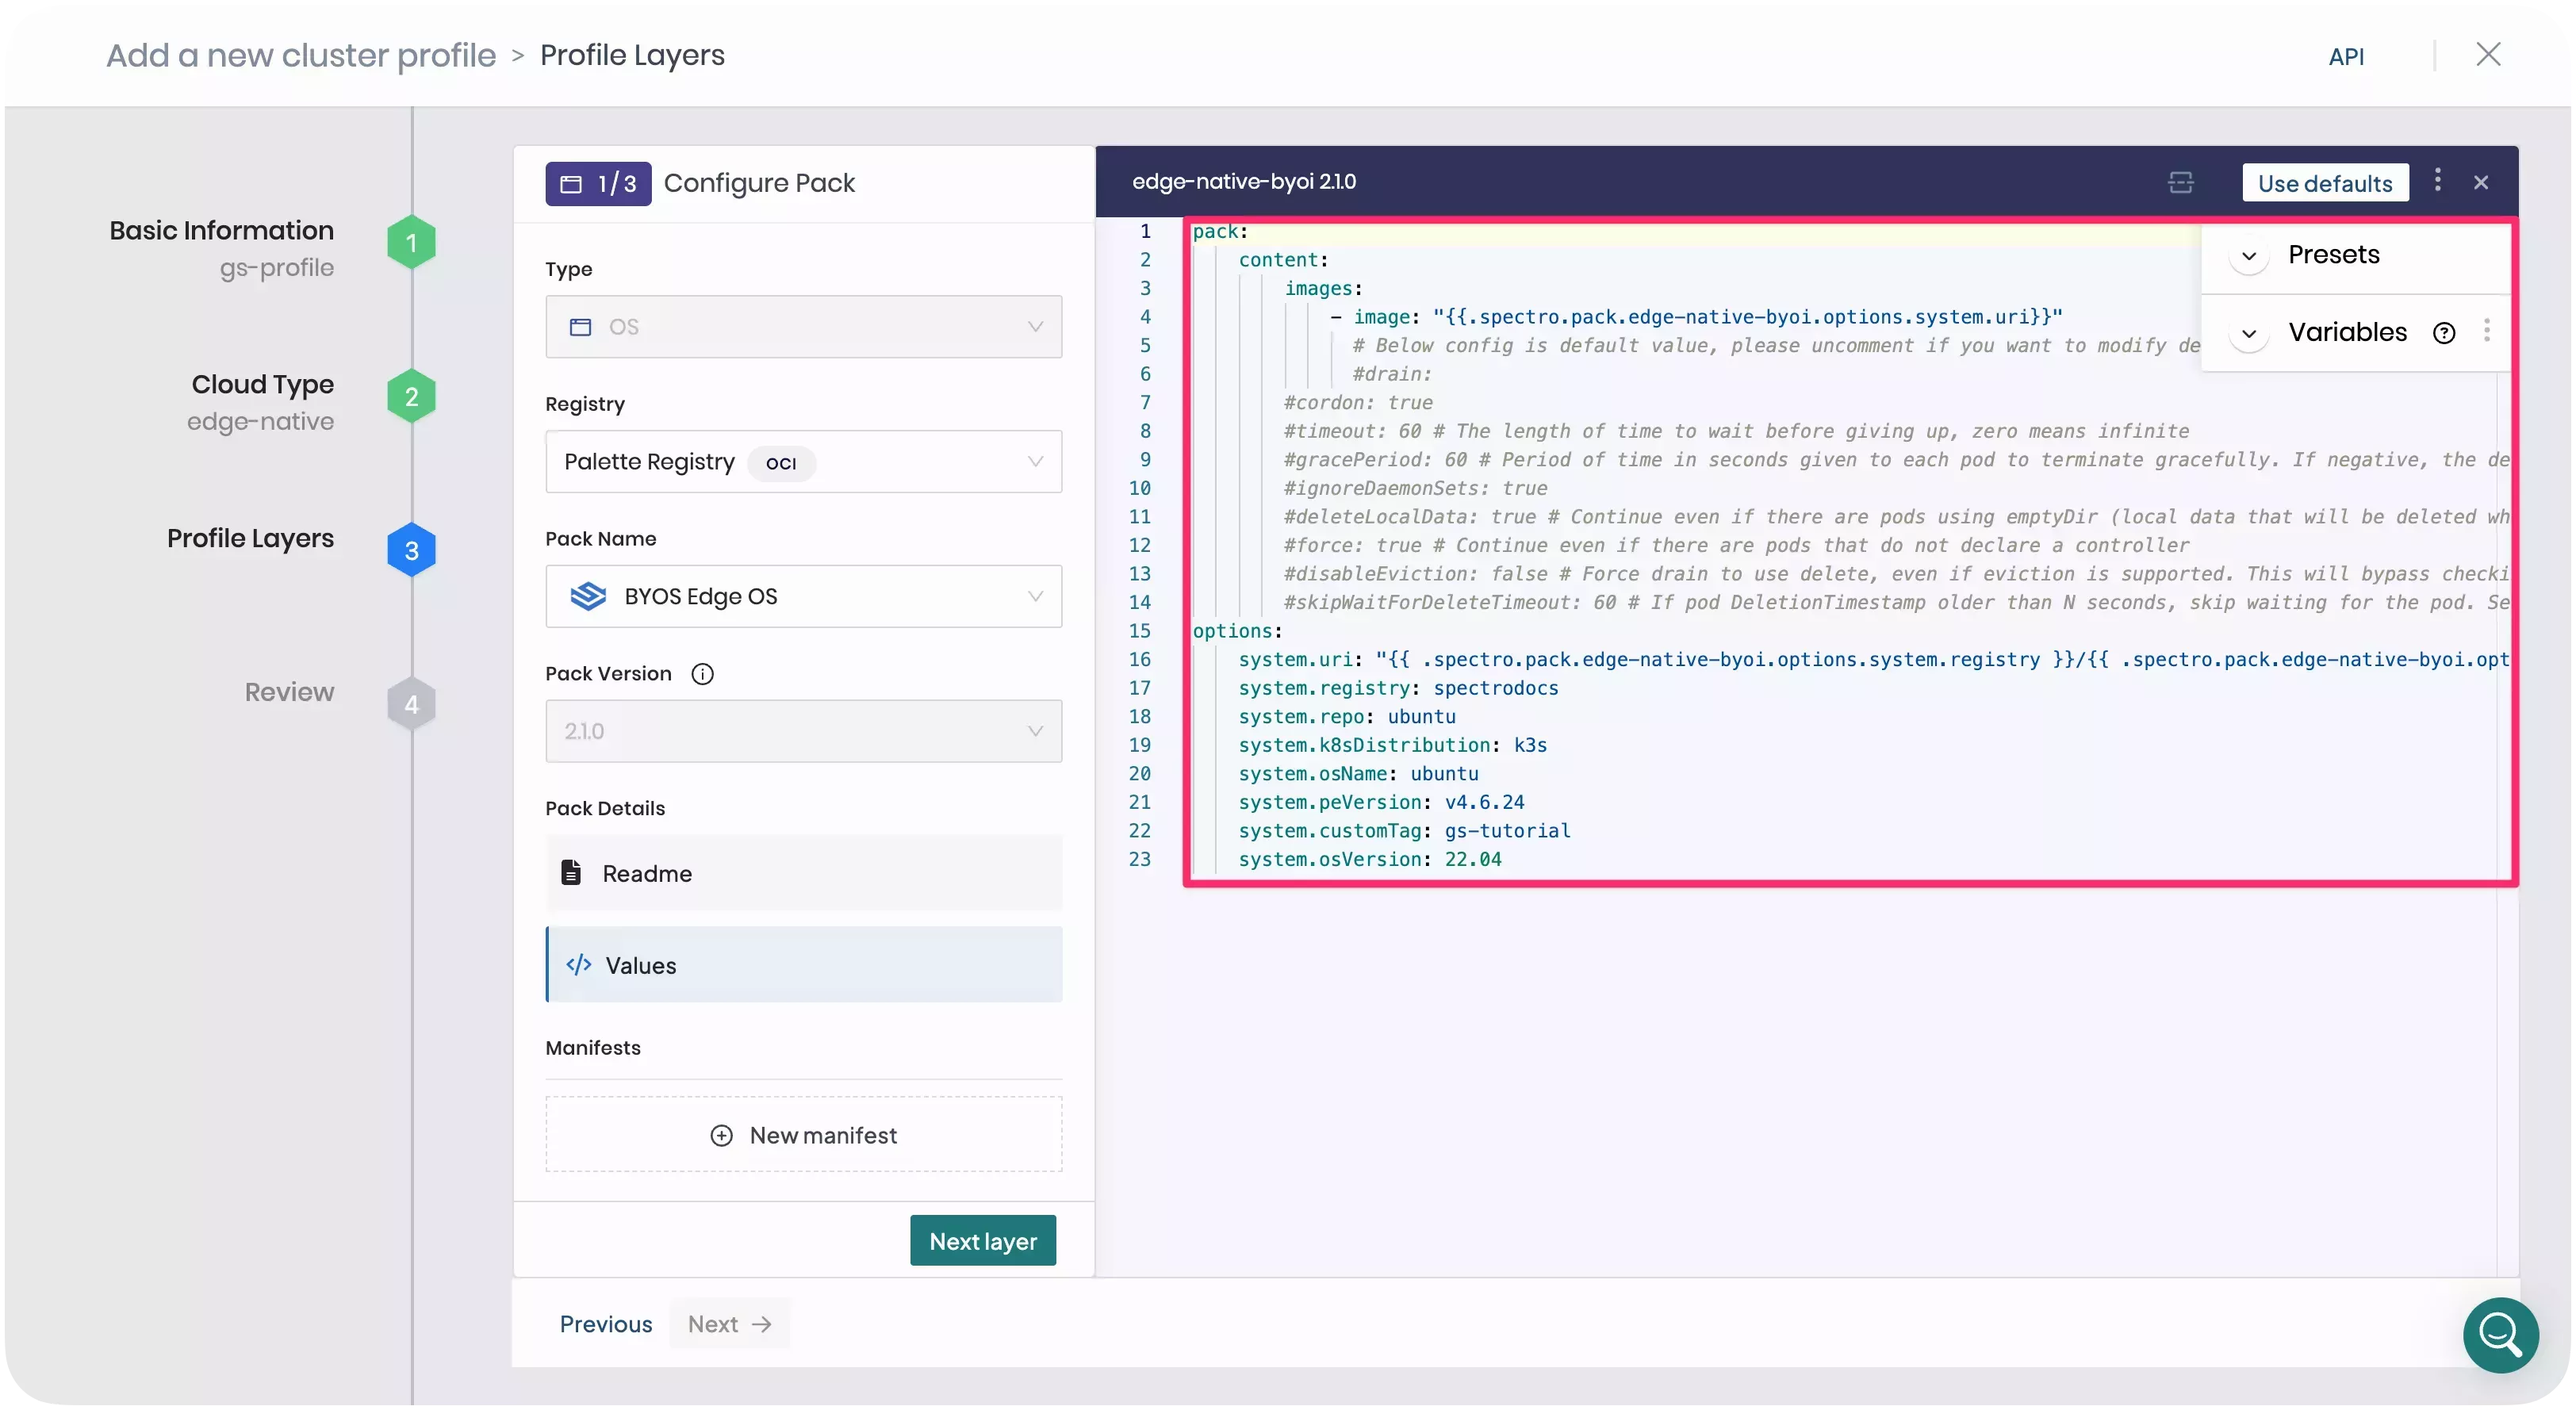
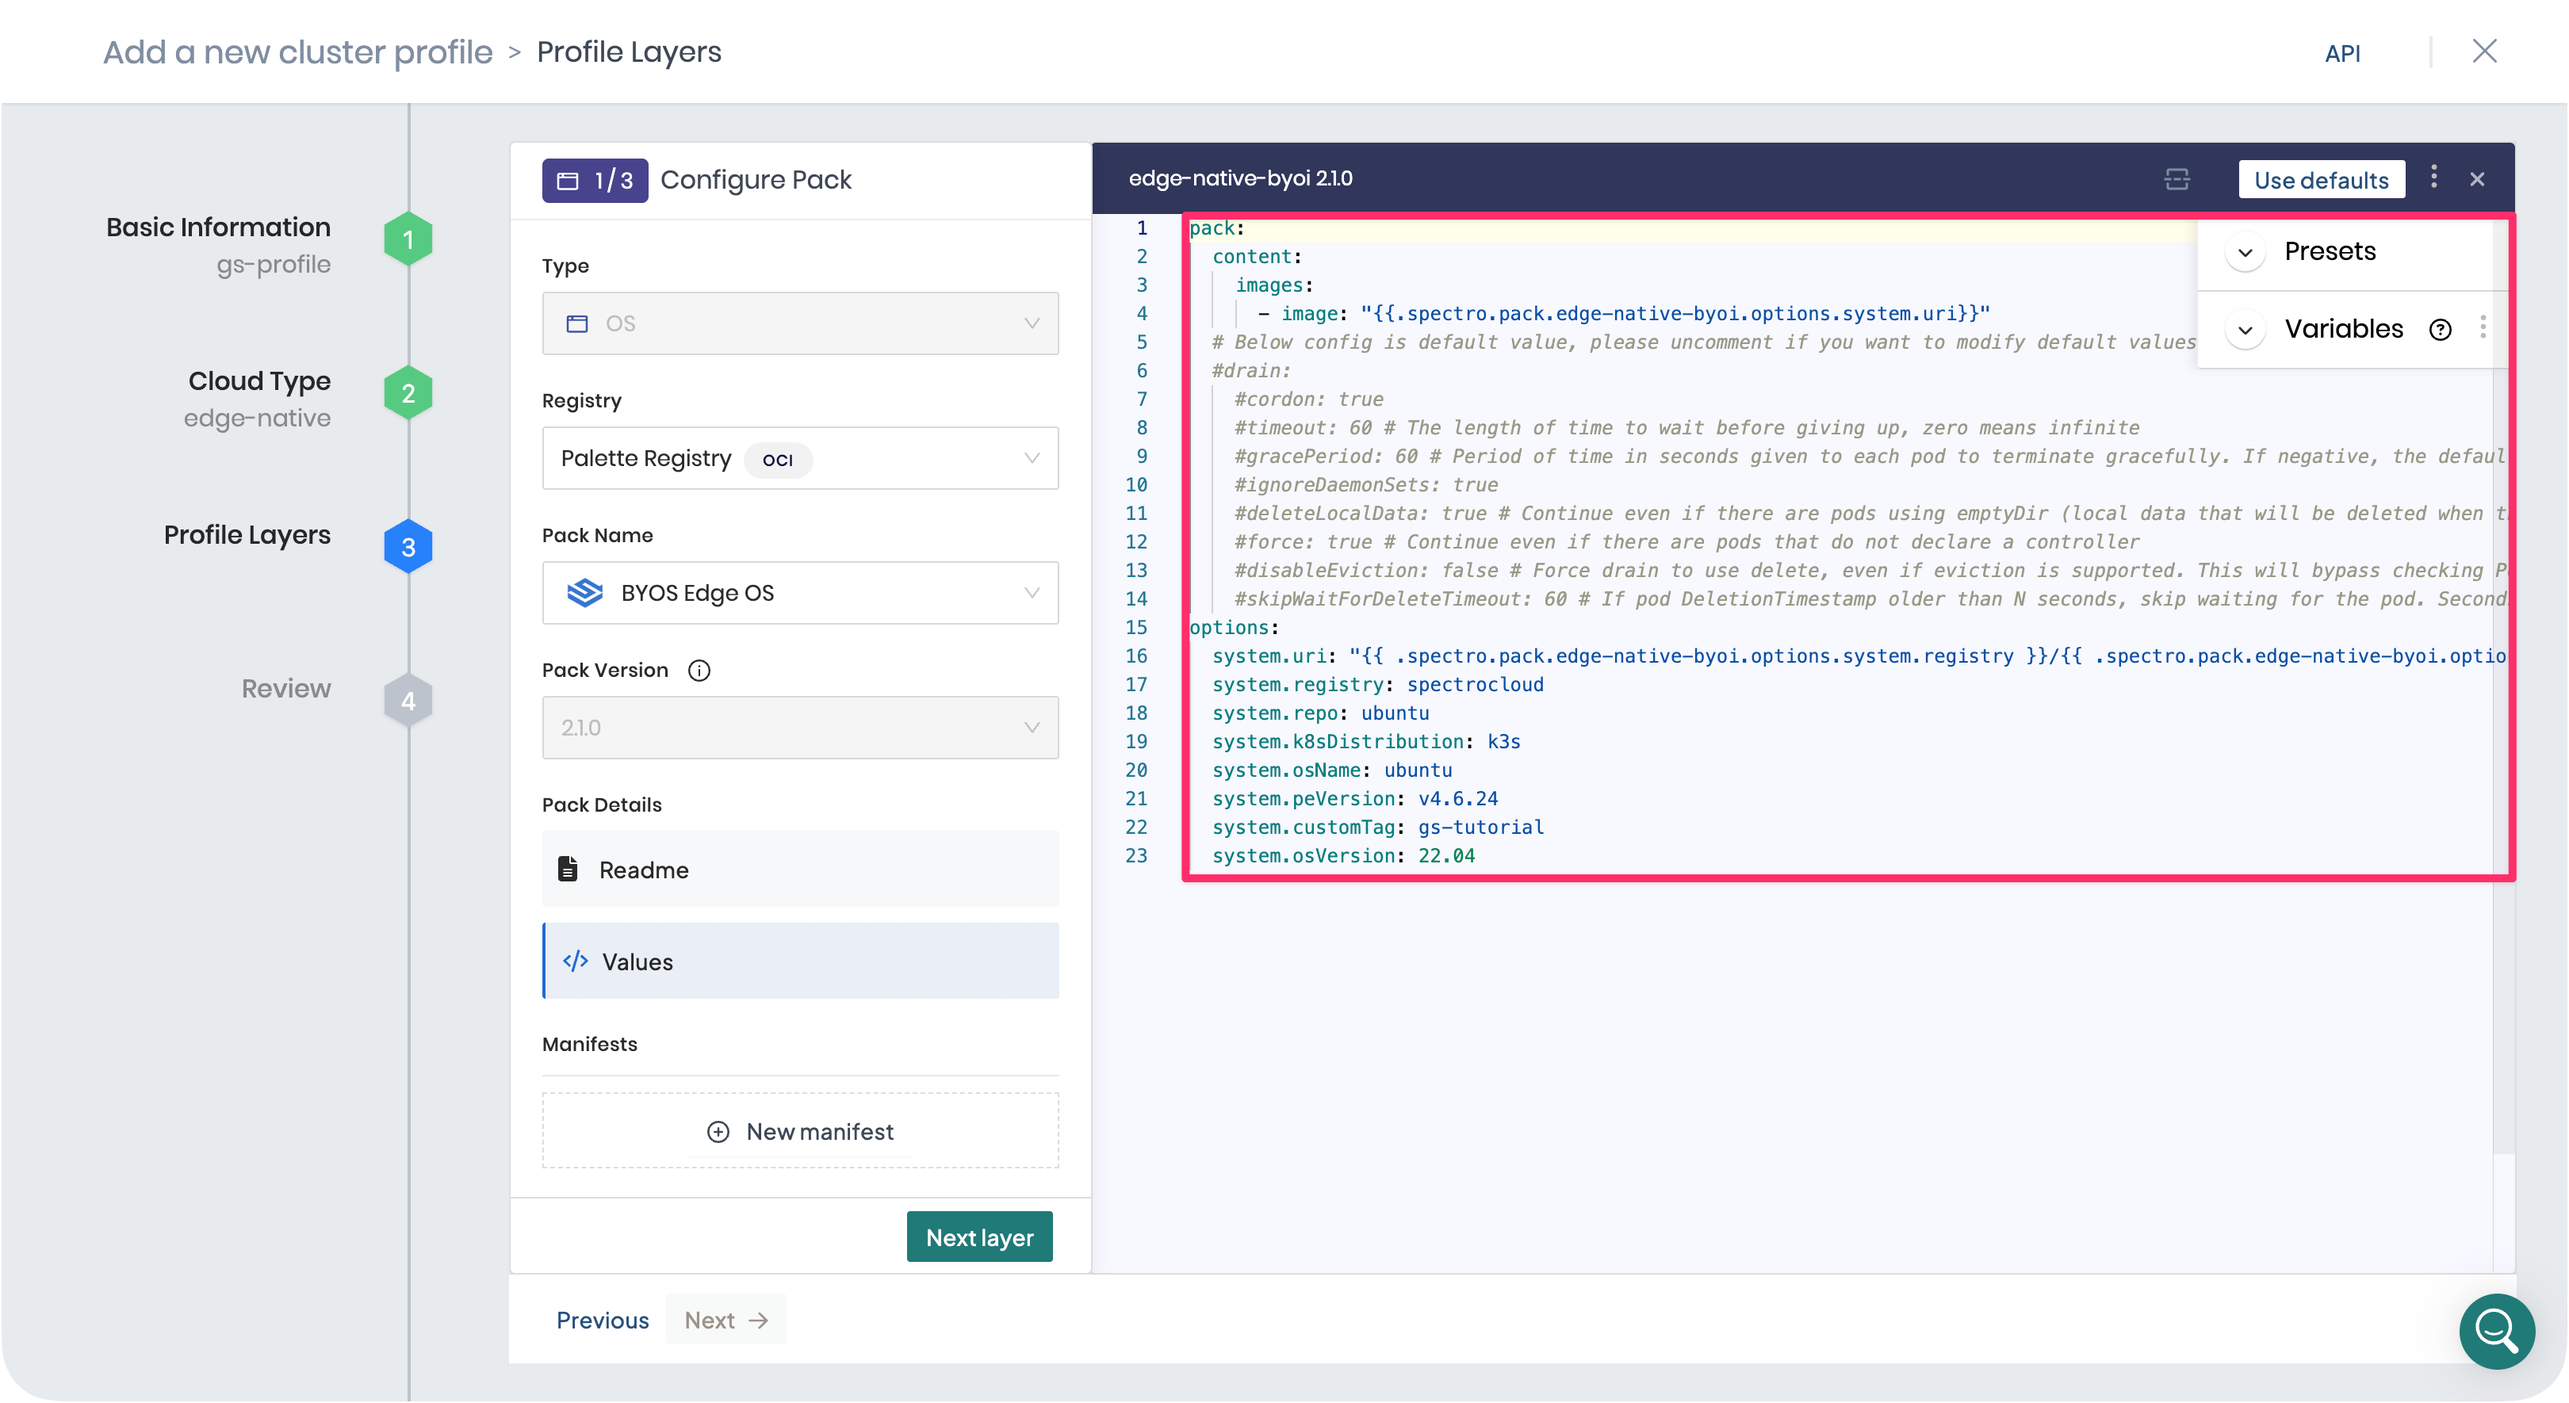
docs: apply suggestions from Lenny

diff --git a/docs/docs-content/tutorials/getting-started/palette-edge/build-edge-artifacts.md b/docs/docs-content/tutorials/getting-started/palette-edge/build-edge-artifacts.md
@@ -36,8 +36,11 @@ To complete this tutorial, ensure the following prerequisites are in place.
   - 4 CPUs
   - 8 GB memory
   - 150 GB storage
-- Access to an image registry. This tutorial uses [Docker Hub](https://www.docker.com/products/docker-hub/) as an
-  example.
+- Access to a public image registry and permissions to push images. This tutorial uses
+  [Docker Hub](https://www.docker.com/products/docker-hub/) as an example. If you need to use a private registry, refer
+  to the
+  [Deploy Cluster with a Private Provider Registry](../../../clusters/edge/site-deployment/deploy-custom-registries/deploy-private-registry.md)
+  guide for instructions on how to configure the credentials.
 - The following software installed on the Linux machine:
   - [Docker Engine](https://docs.docker.com/engine/install/) with
     [`sudo`](https://docs.docker.com/engine/install/linux-postinstall/) privileges. Alternatively, you can install
@@ -45,7 +48,7 @@ To complete this tutorial, ensure the following prerequisites are in place.
   - [jq](https://jqlang.org/download/), if you build the artifacts using the [script](#automate-edgeforge).
   - [Git](https://git-scm.com/book/en/v2/Getting-Started-Installing-Git)
 
-## Define Arguments
+## Define Build Arguments
 
 Open a terminal window on your Linux machine and navigate to the `CanvOS` repository that you cloned in the
 [Prepare User Data for Edge Installation](./prepare-user-data.md) tutorial. This repository contains the utilities
@@ -61,7 +64,7 @@ Check the available Git tags.
 git tag
 ```
 
-Check out the desired tag. We recommend using a CanvOS major version that is the same as, or older than, Palette's major
+Check out the desired tag. We recommend using a CanvOS minor version that is the same as, or older than, Palette's minor
 version. This tutorial uses the tag `v4.6.24` as an example.
 
 ```
@@ -197,14 +200,25 @@ docker images --filter=reference="*/*:*$CUSTOM_TAG"
 
 ```text hideClipboard
 REPOSITORY           TAG                                          IMAGE ID       CREATED          SIZE
-spectrodocs/ubuntu   k3s-1.32.3-v4.6.24-gs-tutorial               d28750baa9a6   33 minutes ago   5.05GB
-spectrodocs/ubuntu   k3s-1.32.3-v4.6.24-gs-tutorial_linux_amd64   d28750baa9a6   33 minutes ago   5.05GB
+spectrocloud/ubuntu   k3s-1.32.3-v4.6.24-gs-tutorial               d28750baa9a6   33 minutes ago   5.05GB
+spectrocloud/ubuntu   k3s-1.32.3-v4.6.24-gs-tutorial_linux_amd64   d28750baa9a6   33 minutes ago   5.05GB
 ```
 
 ## Push Provider Images
 
-Push the provider image to the image registry specified in the `.arg` file, so that your Edge host can download it
-during the cluster deployment.
+To use the provider image with your Edge deployment, push it to the image registry specified in the `.arg` file. Issue
+the following command to log in to Docker Hub. Provide your Docker ID and password when prompted.
+
+```bash
+docker login
+```
+
+```text hideClipboard
+Login Succeeded
+```
+
+Once authenticated, push the provider image to the registry so that your Edge host can download it during the cluster
+deployment.
 
 ```bash
 docker push $IMAGE_REGISTRY/ubuntu:k3s-1.32.3-v4.6.24-$CUSTOM_TAG
@@ -460,16 +474,27 @@ Follow the steps below to build the artifacts using the script.
    chmod +x edgeforge.sh
    ```
 
-3. Invoke the script to build the artifacts, answering the prompts.
+3. Log in to the image registry that you will use to host the provider images. This tutorial uses Docker Hub as an
+   example. Provide your Docker ID and password when prompted.
+
+   ```bash
+   docker login
+   ```
+
+   ```text hideClipboard
+   Login Succeeded
+   ```
+
+4. Invoke the script to build the artifacts, answering the prompts.
 
    ```shell
    ./edgeforge.sh
    ```
 
-4. Once the build is complete, the script generates a manifest in `CanvOS/manifest-profile.yaml` with predefined values
+5. Once the build is complete, the script generates a manifest in `CanvOS/manifest-profile.yaml` with predefined values
    required to create the cluster profile. Ensure to save this manifest, as you will need it for the next tutorial.
 
-5. Confirm that the Edge installer ISO and its checksum have been created correctly.
+6. Confirm that the Edge installer ISO and its checksum have been created correctly.
 
    ```bash
    ls CanvOS/build

diff --git a/docs/docs-content/tutorials/getting-started/palette-edge/edge-cluster-profile.md b/docs/docs-content/tutorials/getting-started/palette-edge/edge-cluster-profile.md
@@ -58,6 +58,10 @@ manifest generated in the [Build Edge Artifacts](./build-edge-artifacts.md) tuto
 provider images from the image registry specified in the [Build Edge Artifacts](./build-edge-artifacts.md) tutorial
 during deployment.
 
+Alternatively, if you no longer have access to the manifest, you can manually fill in the `options.system.uri` parameter
+with the address of the provider image you pushed to the registry. For example, the address used in this tutorial is
+`spectrocloud/ubuntu:k3s-1.32.3-v4.6.24-gs-tutorial`.
+
 The following image displays the OS layer with the custom manifest and registry credentials.
 
 ![A screenshot of the cluster profile creation step with the OS layer.](/getting-started/getting-started_introduction-edge_edge-cluster-profile_byos-cluster-profile.webp)
@@ -82,6 +86,14 @@ Click **Next Layer** to add the network layer. This tutorial uses Cilium as the 
 | Cilium        | 1.17.1      | Palette Registry | Network   |
 
 Click **Confirm** once you have completed adding all core layers.
+
+:::info
+
+The Edge cluster profile's core infrastructure layers do not include a Container Storage Interface (CSI) layer by
+default. If your application requires persistent storage, you must include a CSI pack. This tutorial's scope does not
+include a CSI pack.
+
+:::
 
 Next, click **Add New Pack** to include the add-on layers. Search for `MetalLB` and add the following pack to your
 cluster profile.
